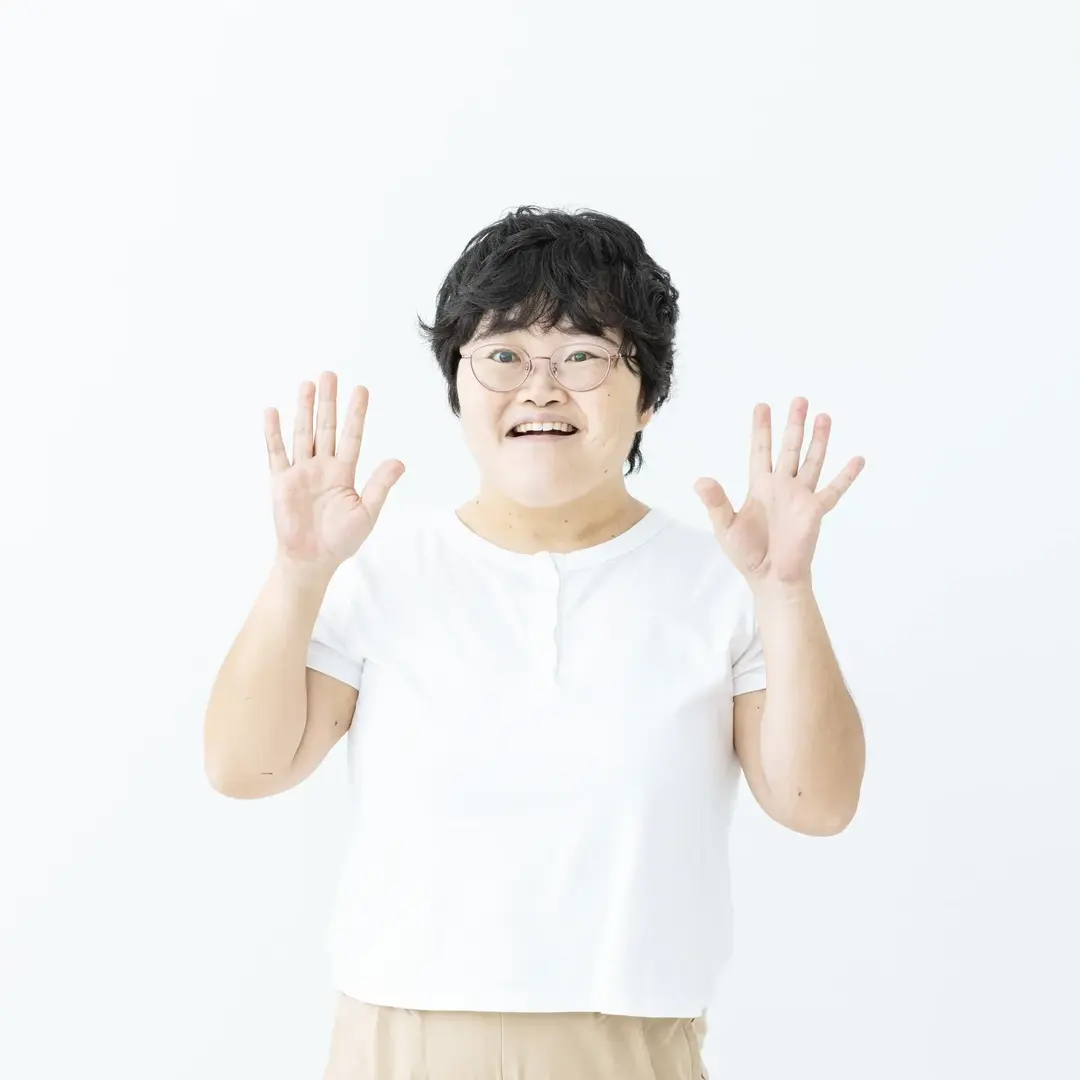
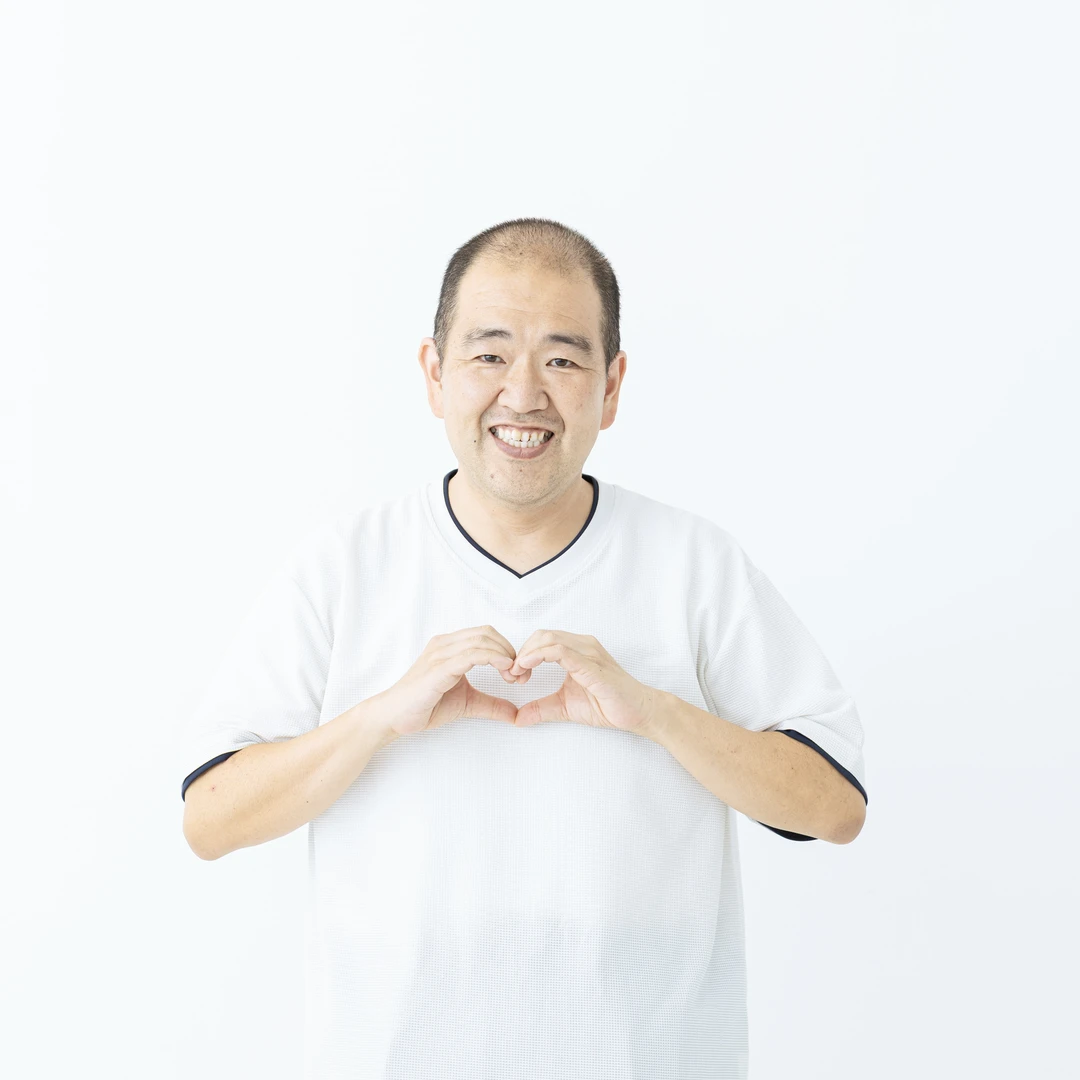
文言修正

Changed region(s): [[0.1528, 0.1833, 0.825, 1.0]]

diff --git a/src/app/[lang]/(static)/page.tsx b/src/app/[lang]/(static)/page.tsx
@@ -133,11 +133,14 @@ export default async function Page({ params }: Props) {
 
               {/* 私たち〜以降 */}
               <div className="relative text-center space-y-0 pb-4">
-                <p className="text-[0.85rem] md:text-lg text-gray-800 leading-loose md:leading-[2.5]">
+                <p className="text-[0.85rem] md:text-lg text-gray-800 leading-loose md:leading-[2.5] mb-0">
                   私たちは、そんな着物をアップサイクルし、
                 </p>
+                <p className="text-[0.85rem] md:text-lg text-gray-800 leading-loose md:leading-[2.5] mb-0">
+                  もう一度、日常に着物の彩りを
+                </p>
                 <p className="text-[0.85rem] md:text-lg text-gray-800 leading-loose md:leading-[2.5]">
-                  もう一度、日常に着物の彩りを取り戻したいと考えています。
+                  取り戻したいと考えています。
                 </p>
 
                 <p className="text-[0.85rem] md:text-lg text-gray-800 leading-loose md:leading-[2.5] pt-8">
@@ -207,7 +210,9 @@ export default async function Page({ params }: Props) {
                 <br />
                 地域の方々から譲り受けた一着を、
                 <br />
-                丁寧にほどき、再び縫い合わせて生まれ変わらせています。
+                丁寧にほどき、再び縫い合わせて
+                <br />
+                生まれ変わらせています。
               </p>
 
               <p className="text-[0.85rem] md:text-lg text-gray-700 leading-loose md:leading-[2.5]">

diff --git a/src/app/[lang]/(dynamic)/aboutus/page.tsx b/src/app/[lang]/(dynamic)/aboutus/page.tsx
@@ -71,7 +71,9 @@ export default async function AboutUsPage({ params }: Props) {
               <br />
               地域の方々から譲り受けた一着を、
               <br />
-              丁寧にほどき、再び縫い合わせて生まれ変わらせています。
+              丁寧にほどき、再び縫い合わせて
+              <br />
+              生まれ変わらせています。
             </p>
 
             <p className="text-[0.85rem] md:text-lg text-gray-700 leading-loose md:leading-[2.5]">
